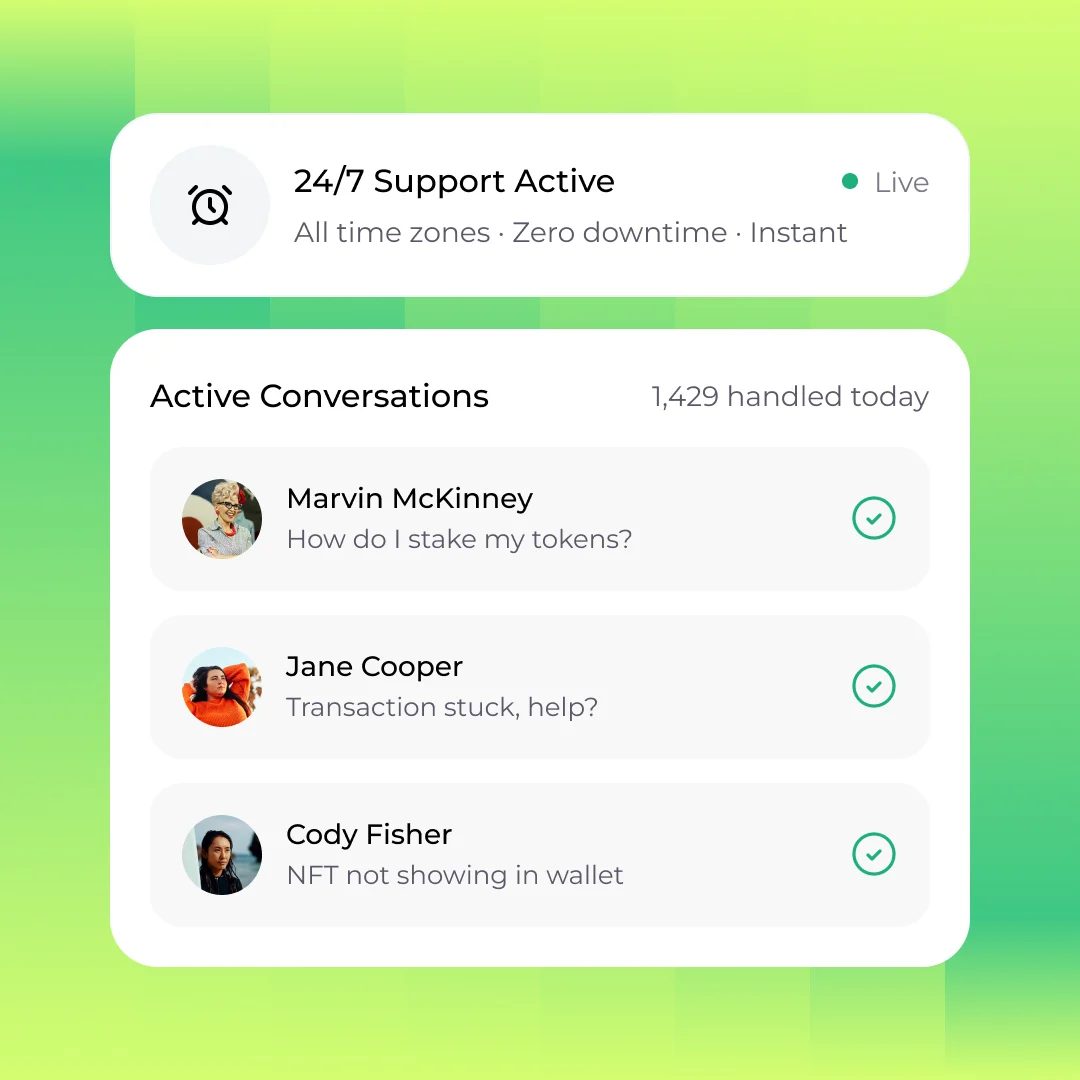
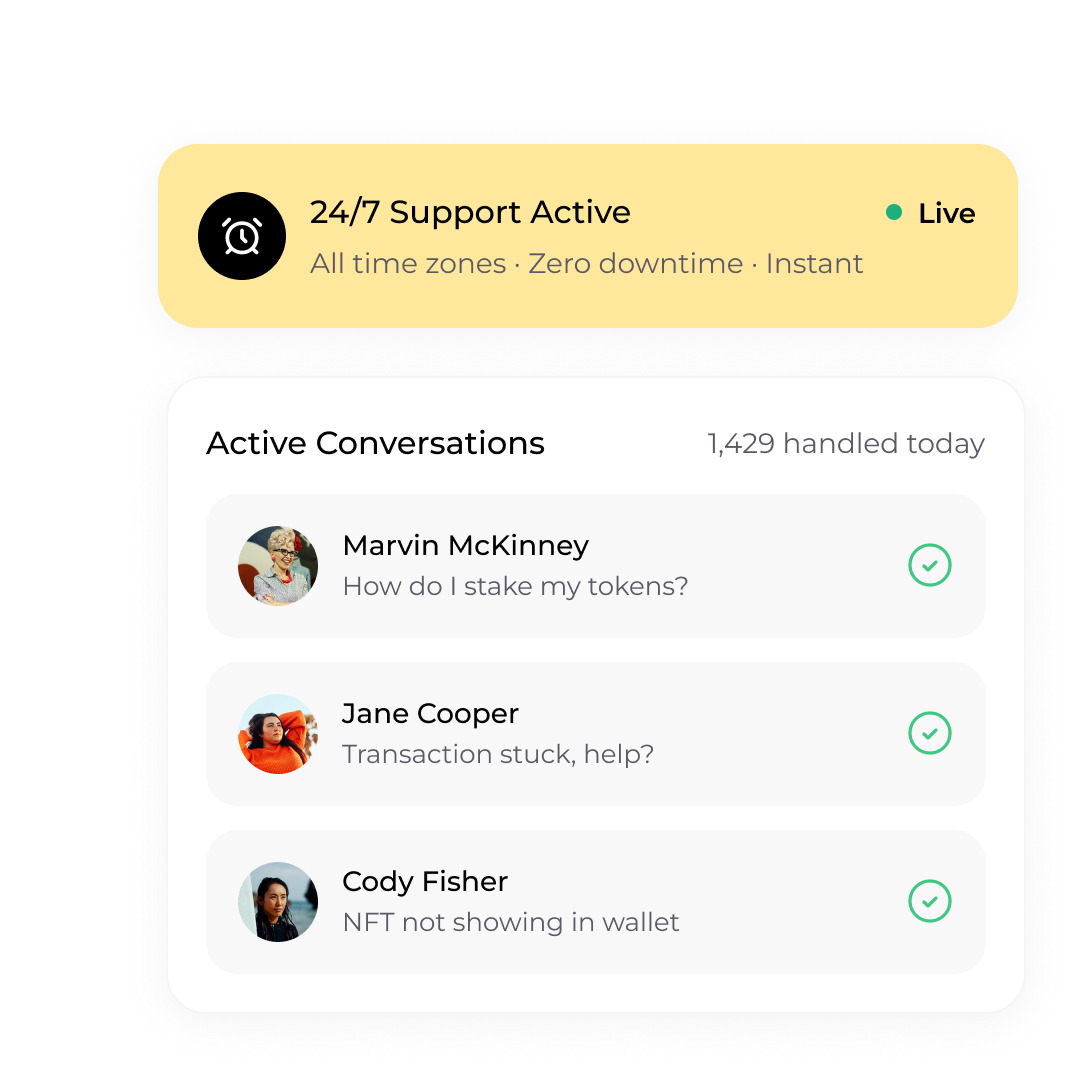
Draw the Solution figures' ground instead of shipping it
The frames build each figure as a transparent subject over a shared
1232x1160 dot raster. The exports had that raster flattened into them,
so all three carried the same texture as pixels.

Now the subject is exported with its ground removed — composited from
the foreground nodes at their measured offsets, since the API cannot
hide a layer — and DotCloud draws the ground: a 9px grid of dots whose
weight drifts through two octaves of value noise, clustering over about
220px. Each figure takes its own seed, so the three no longer repeat one
picture.

Matched to the raster by measurement, tuned against the browser rather
than a simulation because canvas antialiasing spreads a 1.45px dot more
than PIL's supersampling does: mean luminance 235.71 against 235.90,
deviation 14.58 against 14.73, median cell weight identical at 176.

The subjects cost 228KB against 126KB baked — alpha and cut-out edges
do not compress as well as a flattened image. The hub is flat vector so
it takes lossy q76; the two carrying avatar photos come out both
smaller and exact as lossless.

diff --git a/src/components/DotCloud.tsx b/src/components/DotCloud.tsx
@@ -1,0 +1,126 @@
+import { useEffect, useRef } from "react";
+
+/**
+ * The ground the Solution figures stand on: a fine grid of dots whose weight
+ * drifts in soft clusters, so the field reads as an uneven wash rather than a
+ * lattice.
+ *
+ * It replaces a 1232x1160 raster that three of those figures shared. Generated
+ * instead of shipped, it costs no bytes, resolves at whatever size the slot
+ * gives it, and a different `seed` keeps the three from looking like the same
+ * picture repeated.
+ *
+ * Measured off that raster: a 16px pitch with a ~2.3px dot on #F1EEE9, drawn at
+ * 53% in the frame, and clusters correlating over roughly 220 rendered px.
+ */
+
+/** Warm off-white, the fill the frames sit on. */
+const GROUND = "#F1EEE9";
+/**
+ * Dot ink. Nearly black on purpose: each dot covers about 2% of its cell, so
+ * the field still reads as a light wash, and a lighter ink flattens the
+ * clusters out — matching the raster took this rather than a mid grey.
+ */
+const INK = "8, 8, 7";
+/** Distance between dots, in CSS px. */
+const PITCH = 9;
+/** Dot radius at full weight. */
+const DOT_R = 1.45;
+/** Cluster size, in CSS px: the wavelength of the coarse noise. */
+const CLUSTER = 220;
+/** Floor and ceiling of a dot's weight, so nothing is fully absent or solid. */
+const WEIGHT_MIN = 0.03;
+const WEIGHT_MAX = 1;
+
+/** Deterministic hash so a seed always draws the same field. */
+function hash(x: number, y: number, seed: number) {
+  const n = Math.sin(x * 127.1 + y * 311.7 + seed * 74.7) * 43758.5453;
+  return n - Math.floor(n);
+}
+
+const fade = (t: number) => t * t * (3 - 2 * t);
+
+/** Value noise on a lattice of `scale`, bilinear with a smoothstep ease. */
+function valueNoise(x: number, y: number, scale: number, seed: number) {
+  const gx = x / scale;
+  const gy = y / scale;
+  const x0 = Math.floor(gx);
+  const y0 = Math.floor(gy);
+  const fx = fade(gx - x0);
+  const fy = fade(gy - y0);
+  const a = hash(x0, y0, seed);
+  const b = hash(x0 + 1, y0, seed);
+  const c = hash(x0, y0 + 1, seed);
+  const d = hash(x0 + 1, y0 + 1, seed);
+  return (a * (1 - fx) + b * fx) * (1 - fy) + (c * (1 - fx) + d * fx) * fy;
+}
+
+export function DotCloud({
+  className,
+  style,
+  seed = 1,
+}: {
+  className?: string;
+  style?: React.CSSProperties;
+  /** Redraws the same field for a given number; vary it per figure. */
+  seed?: number;
+}) {
+  const hostRef = useRef<HTMLDivElement>(null);
+  const canvasRef = useRef<HTMLCanvasElement>(null);
+
+  useEffect(() => {
+    const host = hostRef.current;
+    const canvas = canvasRef.current;
+    if (!host || !canvas) return;
+
+    const draw = () => {
+      const w = host.clientWidth;
+      const h = host.clientHeight;
+      if (w < 8 || h < 8) return;
+      const dpr = Math.min(2, window.devicePixelRatio || 1);
+      canvas.width = Math.round(w * dpr);
+      canvas.height = Math.round(h * dpr);
+      canvas.style.width = `${w}px`;
+      canvas.style.height = `${h}px`;
+      const ctx = canvas.getContext("2d");
+      if (!ctx) return;
+      ctx.setTransform(dpr, 0, 0, dpr, 0, 0);
+
+      ctx.fillStyle = GROUND;
+      ctx.fillRect(0, 0, w, h);
+
+      // Two octaves: the coarse one makes the clusters, the finer one keeps
+      // neighbouring dots from stepping in lockstep.
+      for (let y = PITCH / 2; y < h; y += PITCH) {
+        for (let x = PITCH / 2; x < w; x += PITCH) {
+          const coarse = valueNoise(x, y, CLUSTER, seed);
+          const fine = valueNoise(x, y, CLUSTER / 3.5, seed + 19);
+          let weight = coarse * 0.72 + fine * 0.28;
+          // Push the mid-tones apart so the clusters have edges.
+          weight = fade(Math.min(1, Math.max(0, (weight - 0.2) / 0.6)));
+          weight = WEIGHT_MIN + (WEIGHT_MAX - WEIGHT_MIN) * weight;
+          const r = DOT_R * (0.25 + 0.75 * weight);
+          ctx.globalAlpha = weight;
+          ctx.fillStyle = `rgb(${INK})`;
+          ctx.beginPath();
+          ctx.arc(x, y, r, 0, Math.PI * 2);
+          ctx.fill();
+        }
+      }
+      ctx.globalAlpha = 1;
+    };
+
+    draw();
+    const ro = new ResizeObserver(draw);
+    ro.observe(host);
+    return () => ro.disconnect();
+  }, [seed]);
+
+  return (
+    <div ref={hostRef} className={className} style={style} aria-hidden>
+      <canvas ref={canvasRef} className="block h-full w-full" />
+    </div>
+  );
+}
+
+export default DotCloud;

diff --git a/src/routes/solution.customer-support.tsx b/src/routes/solution.customer-support.tsx
@@ -7,6 +7,7 @@ import { RollingNumber } from "@/components/RollingNumber";
 import { BreakLines, ProductHero, RainbowButton } from "@/components/ProductHero";
 import { solutionChannelsAsset, solutionConsoleAsset, solutionFlowAsset } from "@/lib/media";
 import { HoverTilt } from "@/components/HoverTilt";
+import { DotCloud } from "@/components/DotCloud";
 import { fluid } from "@/lib/fluid";
 
 export const Route = createFileRoute("/solution/customer-support")({
@@ -117,24 +118,43 @@ function Bullet({ diamond }: { diamond: boolean }) {
   );
 }
 
-/** Feature illustration — the card designed in Figma, exported at 2×. */
+/**
+ * Feature illustration: the subject exported from Figma with its ground
+ * removed, over a ground that is drawn instead. The frames shared one
+ * 1232x1160 raster for that ground; `DotCloud` generates it, so each figure
+ * gets its own field from a different seed.
+ */
 const FIGURES = {
-  channels: { src: solutionChannelsAsset.url, alt: "One knowledge base answering web, email, mobile apps and social platforms" },
-  console: { src: solutionConsoleAsset.url, alt: "24/7 support console with live conversations being resolved" },
-  flow: { src: solutionFlowAsset.url, alt: "Self-service flow: inbound request, intent detection, automated solution, instant resolution" },
+  channels: {
+    src: solutionChannelsAsset.url,
+    seed: 3,
+    alt: "One knowledge base answering web, email, mobile apps and social platforms",
+  },
+  console: {
+    src: solutionConsoleAsset.url,
+    seed: 11,
+    alt: "24/7 support console with live conversations being resolved",
+  },
+  flow: {
+    src: solutionFlowAsset.url,
+    seed: 27,
+    alt: "Self-service flow: inbound request, intent detection, automated solution, instant resolution",
+  },
 } as const;
 
 function Figure({ kind, from }: { kind: Feature["figure"]; from: "left" | "right" }) {
   const f = FIGURES[kind];
   return (
     <HoverTilt from={from} className="w-full" style={{ maxWidth: 540 }}>
-      <img
-        src={f.src}
-        alt={f.alt}
-        draggable={false}
-        className="block h-auto w-full select-none"
-        style={{ aspectRatio: "1 / 1" }}
-      />
+      <div className="relative" style={{ aspectRatio: "1 / 1" }}>
+        <DotCloud className="absolute inset-0" seed={f.seed} />
+        <img
+          src={f.src}
+          alt={f.alt}
+          draggable={false}
+          className="absolute inset-0 block h-full w-full select-none"
+        />
+      </div>
     </HoverTilt>
   );
 }
@@ -143,8 +163,8 @@ function Figure({ kind, from }: { kind: Feature["figure"]; from: "left" | "right
 
 function FeatureSection({ feature, flip }: { feature: Feature; flip: boolean }) {
   return (
-    // White, not paper: the illustrations fade to pure white at their edges,
-    // so on #FAFAFA their bounding box would read as a faint lighter block.
+    // The figures carry their own warm ground now, so the section can sit on
+    // white without its bounding box reading as a lighter block.
     <section style={{ borderTop: `1px solid ${HAIRLINE}`, background: "#FFFFFF" }}>
       <div style={{ padding: `${fluid(100, 56)} ${fluid(120, 24)}` }}>
         <div
